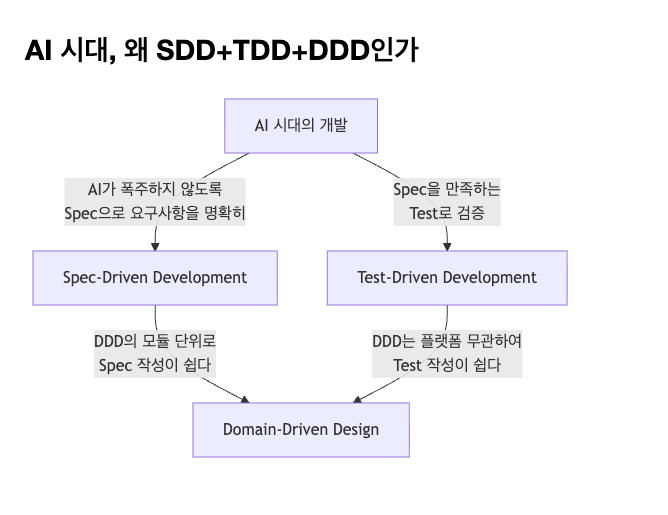
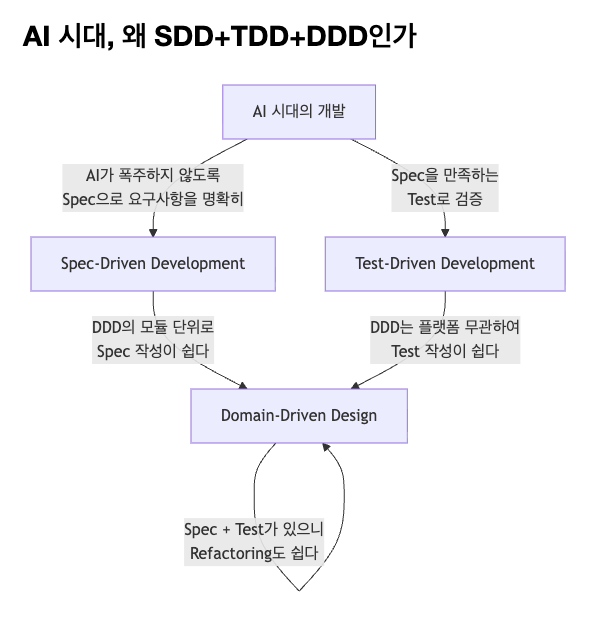
docs: update diagram with dev process flow
- Add development process sequence
- Emphasize refactoring in diagram

diff --git a/docs/diagram.md b/docs/diagram.md
@@ -2,6 +2,10 @@
 
 ## AI 시대, 왜 SDD+TDD+DDD인가
 
+```
+요구사항 → PRD → 도메인 객체 → Spec → 테스트 목록 → 테스트 코드 → 구현 → 리팩토링
+```
+
 ```mermaid
 graph TD
     A["AI 시대의 개발"]
@@ -13,4 +17,5 @@ graph TD
     A --> |"Spec을 만족하는\nTest로 검증"| C
     B --> |"DDD의 모듈 단위로\nSpec 작성이 쉽다"| D
     C --> |"DDD는 플랫폼 무관하여\nTest 작성이 쉽다"| D
+    D --> |"Spec + Test가 있으니\nRefactoring도 쉽다"| D
 ```
